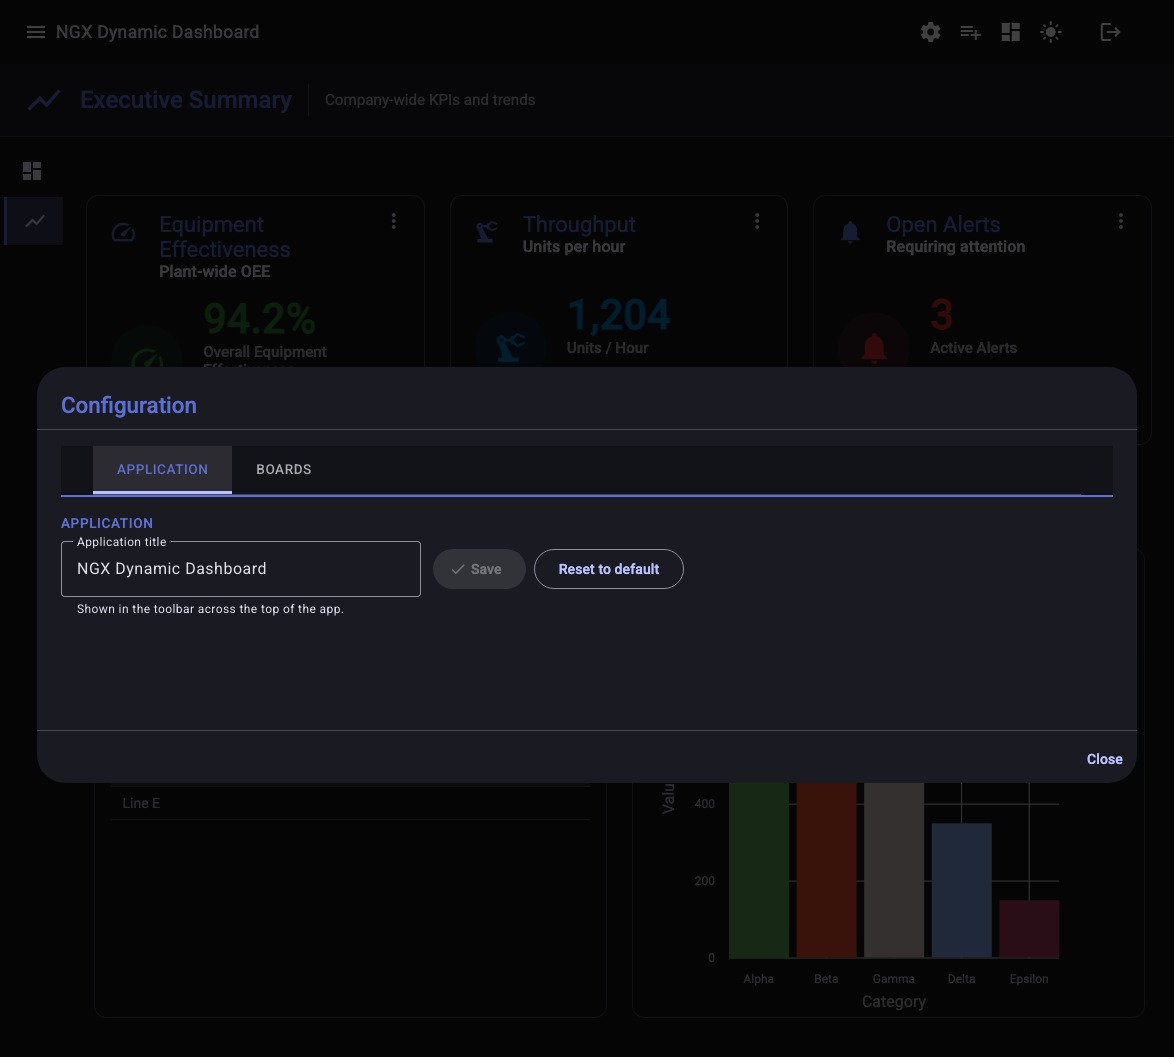
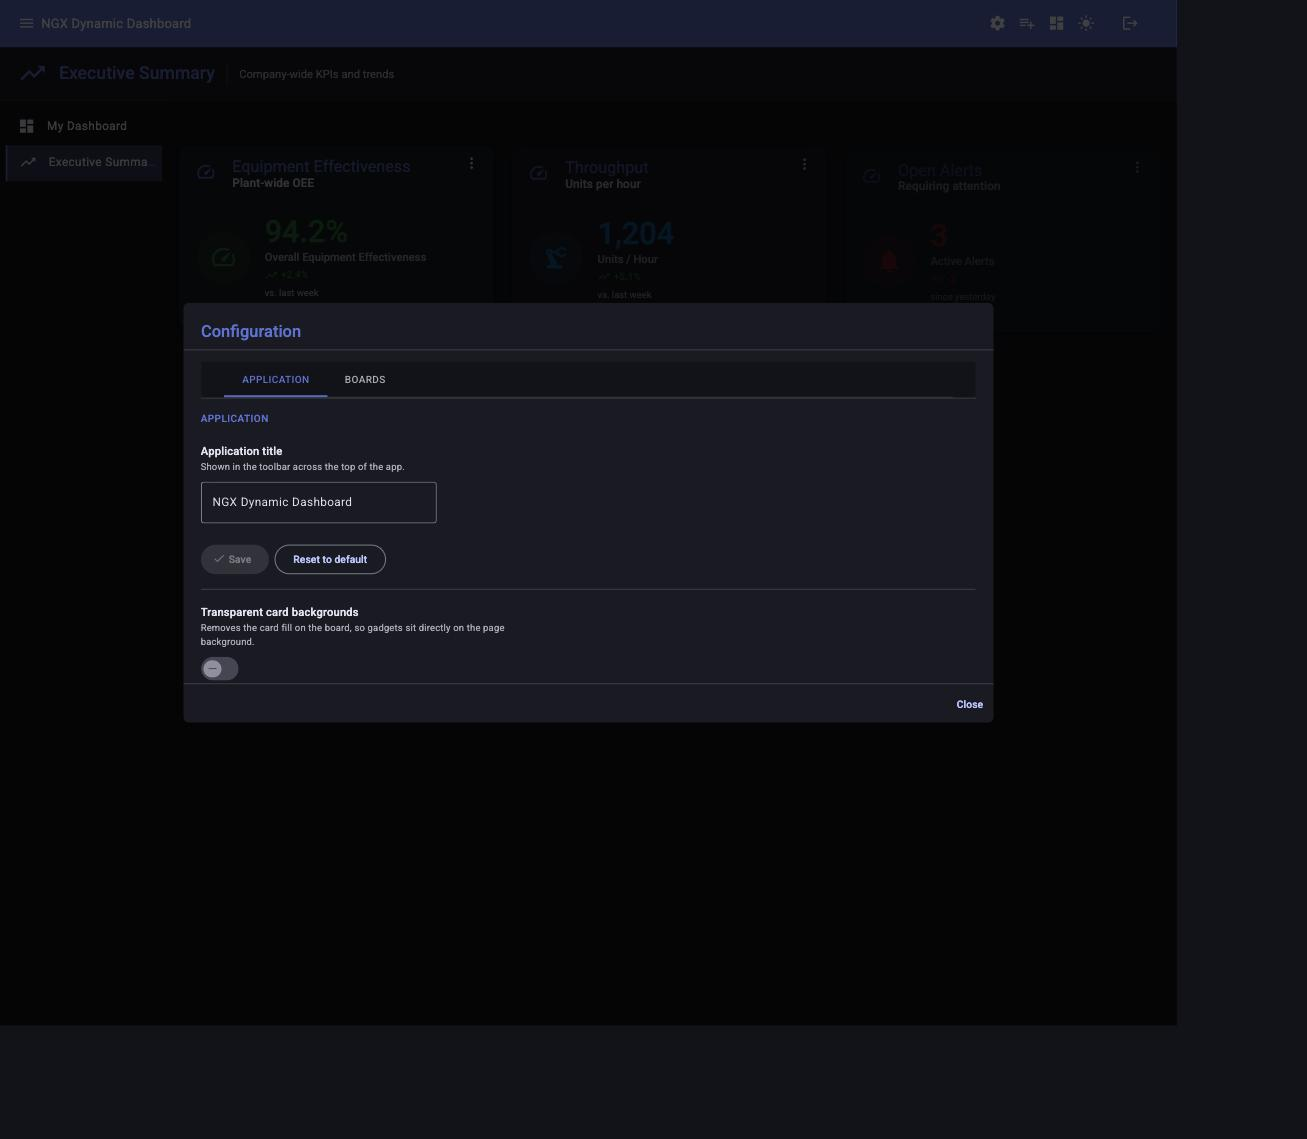
Update README and screenshots for recent feature work
README rewritten to cover all customer-facing features added since
the last pass: the Text/markdown gadget, the per-gadget Help panel,
the markdown toolbar+preview editor, and the redesigned Application
settings tab (transparent card backgrounds). Developer guide updated
to describe the signal-based GADGET_REGISTRY replacing the old
gadget-factory switch statement.

Retook 6 screenshots that had gone stale relative to the modernized
card styling (soft shadow, colored top-accent, circular add buttons)
and the Application tab redesign: dashboard-overview, board-navigation,
light-theme, gadget-library, gadget-configuration, application-configuration.
Added 2 new screenshots for the newest features: help-panel, markdown-editor.

Screenshots were captured against a recreated "Executive Summary" demo
board matching the original's data (verified via the app's own config
panel), plus a new "Shift Notes" Text gadget added to showcase markdown
content. board-configuration, board-layouts-panel, icon-picker, and
quick-start.gif were left as-is since those views were unaffected.

diff --git a/README.md b/README.md
@@ -32,12 +32,17 @@ The framework this project is based on had a notion of data sources backed by RE
 
 > **Planned:** support for REST API endpoints as a data source. It will be *supplementary to* — not a replacement for — manually configured JSON, so existing boards continue to work and either approach can be chosen per gadget instance.
 
+### Toward report-style boards
+
+Most of the gadgets below are chart/data widgets, but the framework is growing toward supporting mixed text-and-visualization "story" boards — narrative commentary alongside charts, in the spirit of data-journalism graphics — rather than only dashboards of isolated widgets. The Text gadget and per-gadget help system (both described below) are the first steps in that direction.
+
 ## Built With
 
 * JSON driven — gadgets and their property pages come from a library definition
-* [Angular Dynamic Components](https://angular.io/guide/dynamic-component-loader) — gadgets are instantiated at runtime
+* [Angular Dynamic Components](https://angular.io/guide/dynamic-component-loader) — gadgets are instantiated at runtime via a signal-based, lazily-loaded registry
 * [Angular Dynamic Forms](https://angular.io/guide/dynamic-form) — configuration forms are generated from each gadget's JSON
 * [NGX Charts](https://swimlane.github.io/ngx-charts/#/ngx-charts/bar-vertical) — charting gadgets
+* [marked](https://marked.js.org/) — renders markdown content (Text gadget, gadget help panel) to HTML
 * Angular Material 3 theming with light and dark modes
 
 ## Blog Post
@@ -74,7 +79,7 @@ Available layouts: one column, two equal, two narrow/wide, two wide/narrow, and 
 
 ### Gadget Library
 
-Gadgets are added from a side panel driven entirely by the library JSON.
+Gadgets are added from a side panel driven entirely by the library JSON. Each card shows a colored accent matching its gadget type and lifts off the panel background with a soft shadow rather than a hard outline.
 
 ![Gadget library](https://github.com/jayhamilton/ngx-dynamic-dashboard-framework/blob/main/documentation/gadget-library.jpg)
 
@@ -88,6 +93,7 @@ Gadgets are added from a side panel driven entirely by the library JSON.
 | Number Card | KPI metric tiles |
 | Table | Rows of tabular data with striping, density, row numbers, and column selection |
 | Statistic | A single metric with an icon, color theme, and trend indicator |
+| Text | A block of markdown-formatted narrative content — headings, links, lists, quotes, code, tables, images. Title/subtitle are optional, so it can read as plain continuing text |
 
 ### Gadget Configuration
 
@@ -95,11 +101,24 @@ Selecting **Configure** on a gadget opens a side panel whose form is generated f
 
 ![Gadget configuration](https://github.com/jayhamilton/ngx-dynamic-dashboard-framework/blob/main/documentation/gadget-configuration.jpg)
 
-Supported form controls: `textbox`, `number`, `checkbox`, `dropdown`, `dropdown-ms`, `date`, `textarea`, `upload`, `hidden`, `section`, `icon-picker`, `ace-editor`, and `json-forms`. Gadget data is edited as JSON in an embedded Ace editor.
+Supported form controls: `textbox`, `number`, `checkbox`, `dropdown`, `dropdown-ms`, `date`, `textarea`, `upload`, `hidden`, `section`, `icon-picker`, `ace-editor`, `json-forms`, and `markdown`. Gadget data is edited as JSON in an embedded Ace editor.
+
+The `markdown` control (used by the Text gadget's content field) is aimed at people who don't already know markdown syntax: a small toolbar inserts the right syntax at the cursor — bold, italic, headings, lists, quotes, inline code, links — and a live preview sits next to the raw text so the effect of each edit is immediately visible.
+
+![Markdown editor](https://github.com/jayhamilton/ngx-dynamic-dashboard-framework/blob/main/documentation/markdown-editor.jpg)
+
+### Gadget Help
+
+Every gadget's menu has a **Help** item, alongside Configure and Remove, opening a side panel with that gadget's own documentation — its purpose, its configuration options, and the JSON shape its data control expects. Help content is markdown, one file per gadget type, so it's easy to keep in sync as gadgets evolve.
+
+![Gadget help panel](https://github.com/jayhamilton/ngx-dynamic-dashboard-framework/blob/main/documentation/help-panel.jpg)
 
 ### Application Configuration
 
-The application title shown in the toolbar is configurable and persisted locally, with a reset back to the built-in default.
+Application-wide settings, independent of any single board:
+
+- **Application title** — shown in the toolbar, persisted locally, with a reset back to the built-in default.
+- **Transparent card backgrounds** — a toggle that drops the card fill and shadow from every gadget on the board, so gadgets sit directly on the page background instead of inside their own card.
 
 ![Application configuration](https://github.com/jayhamilton/ngx-dynamic-dashboard-framework/blob/main/documentation/application-configuration.jpg)
 
@@ -131,15 +150,26 @@ Add an entry to the library array in [library.json](https://github.com/jayhamilt
 
 Production builds read `library-prod.json`, so add the entry to both files.
 
-### 3. Register it with the gadget factory
+### 3. Register it with the gadget registry
 
-Add a case for the new component to [gadget-grid-cell-host.component.ts](https://github.com/jayhamilton/ngx-dynamic-dashboard-framework/blob/main/src/app/gadgets/gadget-grid-cell-host/gadget-grid-cell-host.component.ts), which instantiates gadgets by `componentType`.
+Add a `componentType -> dynamic import()` entry to [gadget-registry.ts](https://github.com/jayhamilton/ngx-dynamic-dashboard-framework/blob/main/src/app/gadgets/gadget-registry.ts):
+
+```ts
+MyNewGadgetComponent: () =>
+  import('./my-new-gadget/my-new-gadget.component').then((m) => m.MyNewGadgetComponent),
+```
+
+`GadgetGridCellHostComponent` takes `gadgetData` as a signal input; a constructor `effect()` reacts to it, looks up the loader by `componentType`, and creates the resolved component via `ViewContainerRef.createComponent()`. Because each entry is a dynamic import rather than a static one, the bundler code-splits every gadget into its own chunk — a gadget type is only downloaded the first time a board actually renders one.
 
 ### 4. Gadget icons
 
 Set `icon` to a [Material Icons](https://fonts.google.com/icons?icon.set=Material+Icons) ligature name (e.g. `"bar_chart"`) — no image file needed. It renders as a `<mat-icon>` in both the gadget header and the library panel, so it themes correctly in light and dark mode.
 
 Boards use the same convention. The icon picker's list lives in [icon-options.ts](https://github.com/jayhamilton/ngx-dynamic-dashboard-framework/blob/main/src/app/shared/icon-picker/icon-options.ts) — add entries there to extend it. `IconPickerComponent` is a standard `ControlValueAccessor`, so it can be used in any reactive form.
+
+### 5. Help content
+
+Add a markdown file at `src/assets/help/<componentType-slug>.md` (e.g. `bar-chart.md`) describing the gadget's purpose, its configuration options, and the JSON shape its data control expects. It's rendered in the gadget's Help side panel — see [Gadget Help](#gadget-help) above.
 
 ### JSON Definition
 
